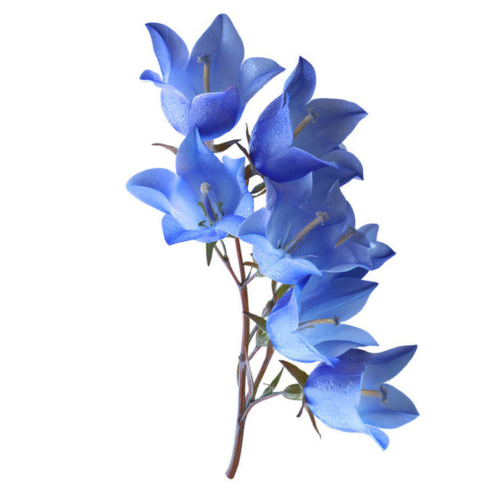
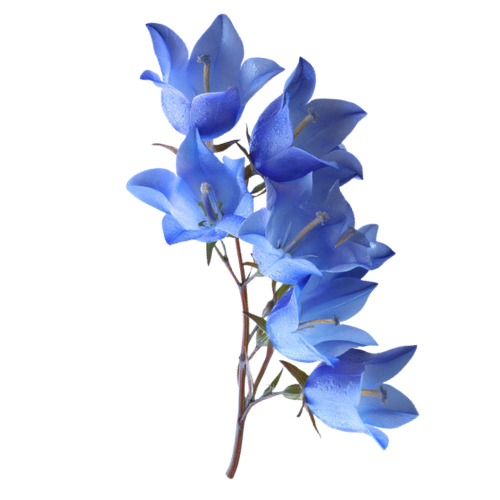
restructure to centred layout with 3x5 flower grid

diff --git a/index.html b/index.html
@@ -60,7 +60,7 @@
     }
 
     .page {
-      max-width: 1100px;
+      max-width: 980px;
       margin: 0 auto;
       padding: clamp(1.5rem, 4vw, 3.5rem) clamp(1rem, 4vw, 2.5rem) 4rem;
     }
@@ -117,16 +117,16 @@
       line-height: 1;
     }
 
-    /* ---- Layout ---- */
+    /* ---- Layout: single centred column ---- */
     .studio {
-      display: grid;
-      grid-template-columns: minmax(0, 1fr);
-      gap: clamp(1.5rem, 4vw, 2.5rem);
-      align-items: start;
+      display: flex;
+      flex-direction: column;
+      align-items: center;
+      gap: clamp(2rem, 5vw, 3.25rem);
     }
 
-    /* ---- Crown stage ---- */
-    .stage-wrap { display: flex; flex-direction: column; align-items: center; }
+    /* ---- Crown stage: the hero ---- */
+    .stage-wrap { display: flex; flex-direction: column; align-items: center; width: 100%; }
 
     .stage {
       position: relative;
@@ -180,155 +180,135 @@
       text-align: center;
     }
 
-    /* ---- Controls ---- */
+    /* ---- Control strip: slim, minimal, centred ---- */
     .controls {
-      display: grid;
-      gap: clamp(1.5rem, 4vw, 2.25rem);
+      display: flex;
+      flex-direction: column;
+      align-items: center;
+      gap: 1.4rem;
     }
 
-    .panel {
-      background:
-        linear-gradient(180deg, rgba(246, 239, 221, 0.04), rgba(0, 0, 0, 0.06)),
-        var(--forest);
-      border: 1px solid rgba(176, 141, 79, 0.3);
-      border-radius: var(--radius);
-      padding: clamp(1.1rem, 3vw, 1.6rem);
+    /* backdrop toggle: three small text controls */
+    .backdrop-toggle {
+      display: flex;
+      align-items: center;
+      gap: 0.4rem;
+      flex-wrap: wrap;
+      justify-content: center;
     }
 
-    .panel__title {
-      font-family: var(--display);
-      font-weight: 500;
-      font-size: 1.3rem;
-      color: var(--cream);
-      margin: 0 0 0.2rem;
-    }
-    .panel__note {
-      font-size: 0.92rem;
-      font-style: italic;
-      color: var(--dusk-sage);
-      margin: 0 0 1rem;
-    }
-
-    /* segmented choice buttons */
-    .choices { display: flex; flex-wrap: wrap; gap: 0.6rem; }
-
-    .choice {
+    .toggle {
       font-family: var(--body);
       font-size: 1rem;
-      color: var(--parchment);
-      background: rgba(22, 32, 26, 0.6);
-      border: 1px solid rgba(176, 141, 79, 0.35);
-      border-radius: var(--radius);
-      padding: 0.55rem 1.1rem;
+      color: var(--dusk-sage);
+      background: none;
+      border: 0;
+      padding: 0.2rem 0.4rem;
       cursor: pointer;
-      transition: border-color 0.25s ease, background 0.25s ease, color 0.25s ease;
-      letter-spacing: 0.02em;
+      letter-spacing: 0.04em;
+      transition: color 0.25s ease;
     }
-    .choice:hover { border-color: var(--brass-bright); color: var(--cream); }
-    .choice:focus-visible {
-      outline: 2px solid var(--brass-bright);
-      outline-offset: 2px;
+    .toggle:hover { color: var(--parchment); }
+    .toggle:focus-visible { outline: 2px solid var(--brass-bright); outline-offset: 3px; }
+    .toggle[aria-pressed="true"] {
+      color: var(--brass-bright);
+      border-bottom: 1px solid var(--brass);
     }
-    .choice[aria-pressed="true"] {
-      background: var(--brass);
-      border-color: var(--brass-bright);
-      color: var(--forest-deep);
-      font-weight: 500;
-    }
+    .toggle__sep { color: var(--moss); user-select: none; }
 
-    /* wreath choices as little thumbnails */
-    .wreath-choices { display: flex; flex-wrap: wrap; gap: 0.75rem; }
+    /* wreath choices: three small circular thumbnails */
+    .wreath-choices { display: flex; gap: 0.75rem; justify-content: center; }
     .wreath-choice {
-      width: 78px;
-      height: 78px;
-      padding: 6px;
-      background: rgba(22, 32, 26, 0.6);
-      border: 1px solid rgba(176, 141, 79, 0.35);
+      width: 58px;
+      height: 58px;
+      padding: 4px;
+      background: none;
+      border: 1px solid rgba(176, 141, 79, 0.3);
       border-radius: 50%;
       cursor: pointer;
-      transition: border-color 0.25s ease, transform 0.2s ease;
+      opacity: 0.62;
+      transition: border-color 0.25s ease, opacity 0.25s ease, transform 0.2s ease;
     }
-    .wreath-choice:hover { border-color: var(--brass-bright); transform: scale(1.04); }
+    .wreath-choice:hover { opacity: 1; transform: scale(1.05); }
     .wreath-choice:focus-visible { outline: 2px solid var(--brass-bright); outline-offset: 2px; }
     .wreath-choice[aria-pressed="true"] {
+      opacity: 1;
       border-color: var(--brass-bright);
-      box-shadow: 0 0 0 2px rgba(200, 166, 98, 0.4);
+      box-shadow: 0 0 0 1px rgba(200, 166, 98, 0.4);
     }
     .wreath-choice img { width: 100%; height: 100%; object-fit: contain; display: block; }
 
-    /* ---- Flower palette ---- */
-    .palette {
-      display: grid;
-      grid-template-columns: repeat(auto-fill, minmax(118px, 1fr));
-      gap: clamp(0.75rem, 2vw, 1.1rem);
+    /* ---- Flower press ---- */
+    .press { width: 100%; text-align: center; }
+
+    .press__title {
+      font-family: var(--display);
+      font-weight: 500;
+      font-size: clamp(1.5rem, 4vw, 2rem);
+      color: var(--cream);
+      margin: 0 0 0.4rem;
+    }
+    .press__note {
+      font-size: 0.95rem;
+      font-style: italic;
+      color: var(--dusk-sage);
+      margin: 0 auto clamp(1.6rem, 4vw, 2.4rem);
+      max-width: 48ch;
     }
 
-    .bloom {
-      background: rgba(22, 32, 26, 0.45);
-      border: 1px solid rgba(176, 141, 79, 0.22);
-      border-radius: var(--radius);
-      padding: 0.6rem 0.5rem 0.7rem;
-      text-align: center;
-      transition: border-color 0.25s ease, background 0.25s ease, transform 0.2s ease;
+    /* 5 across, 3 rows of the manifest */
+    .palette {
+      display: grid;
+      grid-template-columns: repeat(5, 1fr);
+      gap: clamp(1.1rem, 3vw, 2rem) clamp(0.75rem, 2.5vw, 1.5rem);
     }
-    .bloom:hover {
-      border-color: rgba(200, 166, 98, 0.6);
-      background: rgba(34, 48, 38, 0.6);
-      transform: translateY(-2px);
-    }
+
+    .bloom { text-align: center; }
 
     .bloom__img {
       width: 100%;
+      max-width: 150px;
       aspect-ratio: 1 / 1;
       object-fit: contain;
       display: block;
-      margin: 0 auto 0.4rem;
-      filter: drop-shadow(0 4px 8px rgba(0, 0, 0, 0.4));
+      margin: 0 auto 0.55rem;
+      filter: drop-shadow(0 5px 12px rgba(0, 0, 0, 0.45));
+      transition: transform 0.25s ease;
     }
+    .bloom:hover .bloom__img { transform: translateY(-4px) scale(1.03); }
 
     .bloom__name {
       font-family: var(--display);
-      font-size: 1rem;
+      font-size: 1.15rem;
       color: var(--cream);
       line-height: 1.1;
       text-transform: capitalize;
     }
     .bloom__meaning {
       display: block;
-      font-size: 0.78rem;
+      font-size: 0.82rem;
       font-style: italic;
       color: var(--dusk-sage);
-      line-height: 1.25;
-      margin-top: 0.15rem;
+      line-height: 1.3;
+      margin-top: 0.2rem;
     }
 
     /* ---- Footer ---- */
     .colophon {
       text-align: center;
-      margin-top: 3rem;
+      margin-top: 3.5rem;
       font-size: 0.85rem;
       font-style: italic;
       color: var(--moss-soft);
     }
 
-    /* ---- Responsive: two columns on wider screens ---- */
-    @media (min-width: 900px) {
-      .studio {
-        grid-template-columns: minmax(0, 1.05fr) minmax(0, 0.95fr);
-      }
-      .stage-wrap { position: sticky; top: 1.5rem; }
+    /* ---- Responsive ---- */
+    @media (max-width: 720px) {
+      .palette { grid-template-columns: repeat(3, 1fr); }
     }
-
-    /* On narrow screens keep the palette tidy: it wraps by default,
-       and we cap its height so it scrolls rather than pushing the page. */
-    @media (max-width: 560px) {
+    @media (max-width: 440px) {
       body { font-size: 17px; }
-      .palette {
-        grid-template-columns: repeat(auto-fill, minmax(96px, 1fr));
-        max-height: 60vh;
-        overflow-y: auto;
-        padding-right: 0.25rem;
-      }
+      .palette { grid-template-columns: repeat(2, 1fr); }
     }
 
     @media (prefers-reduced-motion: reduce) {
@@ -346,7 +326,7 @@
     </header>
 
     <div class="studio">
-      <!-- Crown stage -->
+      <!-- Crown stage: the hero -->
       <section class="stage-wrap" aria-label="Your flower crown">
         <div class="stage" id="stage">
           <img class="stage__backdrop" id="backdrop" alt="" />
@@ -355,28 +335,20 @@
         <p class="stage__caption">Your crown takes shape here.</p>
       </section>
 
-      <!-- Controls -->
+      <!-- Slim control strip -->
       <div class="controls">
-        <section class="panel" aria-labelledby="backdrop-title">
-          <h2 class="panel__title" id="backdrop-title">Backdrop</h2>
-          <p class="panel__note">Choose where to rest your crown.</p>
-          <div class="choices" id="backdrop-choices" role="group" aria-label="Backdrop"></div>
-        </section>
-
-        <section class="panel" aria-labelledby="wreath-title">
-          <h2 class="panel__title" id="wreath-title">Greenery base</h2>
-          <p class="panel__note">Pick the ring of leaves to build upon.</p>
-          <div class="wreath-choices" id="wreath-choices" role="group" aria-label="Greenery base"></div>
-        </section>
-
-        <section class="panel" aria-labelledby="palette-title">
-          <h2 class="panel__title" id="palette-title">The flower press</h2>
-          <p class="panel__note">
-            Fifteen blooms and sprigs, each with its old meaning from the language of flowers - folklore to weave in as you please.
-          </p>
-          <div class="palette" id="palette"></div>
-        </section>
+        <div class="backdrop-toggle" id="backdrop-choices" role="group" aria-label="Backdrop"></div>
+        <div class="wreath-choices" id="wreath-choices" role="group" aria-label="Greenery base"></div>
       </div>
+
+      <!-- The flower press -->
+      <section class="press" aria-labelledby="palette-title">
+        <h2 class="press__title" id="palette-title">The flower press</h2>
+        <p class="press__note">
+          Fifteen blooms and sprigs, each with its old meaning from the language of flowers - folklore to weave in as you please.
+        </p>
+        <div class="palette" id="palette"></div>
+      </section>
     </div>
 
     <p class="colophon">Made for the longest day. Meanings drawn from the language of flowers and country folklore.</p>
@@ -386,21 +358,21 @@
     // ---- Flower manifest ----------------------------------------------------
     // Each entry: { file, name, meaning }. Add to this array to extend the press.
     const FLOWERS = [
-      { file: "rose.png",         name: "rose",         meaning: "love" },
-      { file: "sunflower.png",    name: "sunflower",    meaning: "adoration and loyalty" },
-      { file: "chrysanthemum.png",name: "chrysanthemum",meaning: "joy and long life" },
-      { file: "lavender.png",     name: "lavender",     meaning: "serenity and devotion" },
-      { file: "carnation.png",    name: "carnation",    meaning: "devoted love" },
-      { file: "sweetpea.png",     name: "sweet pea",    meaning: "blissful pleasure and gratitude" },
-      { file: "foxglove.png",     name: "foxglove",     meaning: "fairy magic" },
-      { file: "chamomile.png",    name: "chamomile",    meaning: "patience and calm" },
-      { file: "bluebell.png",     name: "bluebell",     meaning: "constancy and fairy enchantment" },
-      { file: "honeysuckle.png",  name: "honeysuckle",  meaning: "devoted affection" },
-      { file: "eucalyptus.png",   name: "eucalyptus",   meaning: "protection and clarity" },
-      { file: "fern.png",         name: "fern",         meaning: "sincerity and magic" },
-      { file: "ivy.png",          name: "ivy",          meaning: "fidelity" },
-      { file: "rosemary.png",     name: "rosemary",     meaning: "remembrance and loyalty" },
-      { file: "myrtle.png",       name: "myrtle",       meaning: "love and lasting union" },
+      { file: "rose.png",         name: "rose",         meaning: "love, desire, devotion" },
+      { file: "sunflower.png",    name: "sunflower",    meaning: "adoration, loyalty, warmth" },
+      { file: "chrysanthemum.png",name: "chrysanthemum",meaning: "joy, longevity, truth" },
+      { file: "lavender.png",     name: "lavender",     meaning: "serenity, devotion, calm" },
+      { file: "carnation.png",    name: "carnation",    meaning: "devotion, love, fascination" },
+      { file: "sweetpea.png",     name: "sweet pea",    meaning: "pleasure, gratitude, bliss" },
+      { file: "foxglove.png",     name: "foxglove",     meaning: "magic, mystery, fae" },
+      { file: "chamomile.png",    name: "chamomile",    meaning: "patience, calm, rest" },
+      { file: "bluebell.png",     name: "bluebell",     meaning: "constancy, gratitude, enchantment" },
+      { file: "honeysuckle.png",  name: "honeysuckle",  meaning: "devotion, affection, sweetness" },
+      { file: "eucalyptus.png",   name: "eucalyptus",   meaning: "protection, clarity, healing" },
+      { file: "fern.png",         name: "fern",         meaning: "sincerity, magic, shelter" },
+      { file: "ivy.png",          name: "ivy",          meaning: "fidelity, friendship, constancy" },
+      { file: "rosemary.png",     name: "rosemary",     meaning: "remembrance, loyalty, clarity" },
+      { file: "myrtle.png",       name: "myrtle",       meaning: "love, union, fidelity" },
     ];
 
     // ---- Backdrops and wreaths ----------------------------------------------
@@ -455,10 +427,17 @@
     // ---- Build the controls -------------------------------------------------
     function buildBackdropChoices() {
       const container = document.getElementById("backdrop-choices");
-      BACKDROPS.forEach((b) => {
+      BACKDROPS.forEach((b, i) => {
+        if (i > 0) {
+          const sep = document.createElement("span");
+          sep.className = "toggle__sep";
+          sep.setAttribute("aria-hidden", "true");
+          sep.textContent = "/";
+          container.appendChild(sep);
+        }
         const btn = document.createElement("button");
         btn.type = "button";
-        btn.className = "choice";
+        btn.className = "toggle";
         btn.dataset.id = b.id;
         btn.textContent = b.label;
         btn.setAttribute("aria-pressed", String(b.id === state.backdrop));